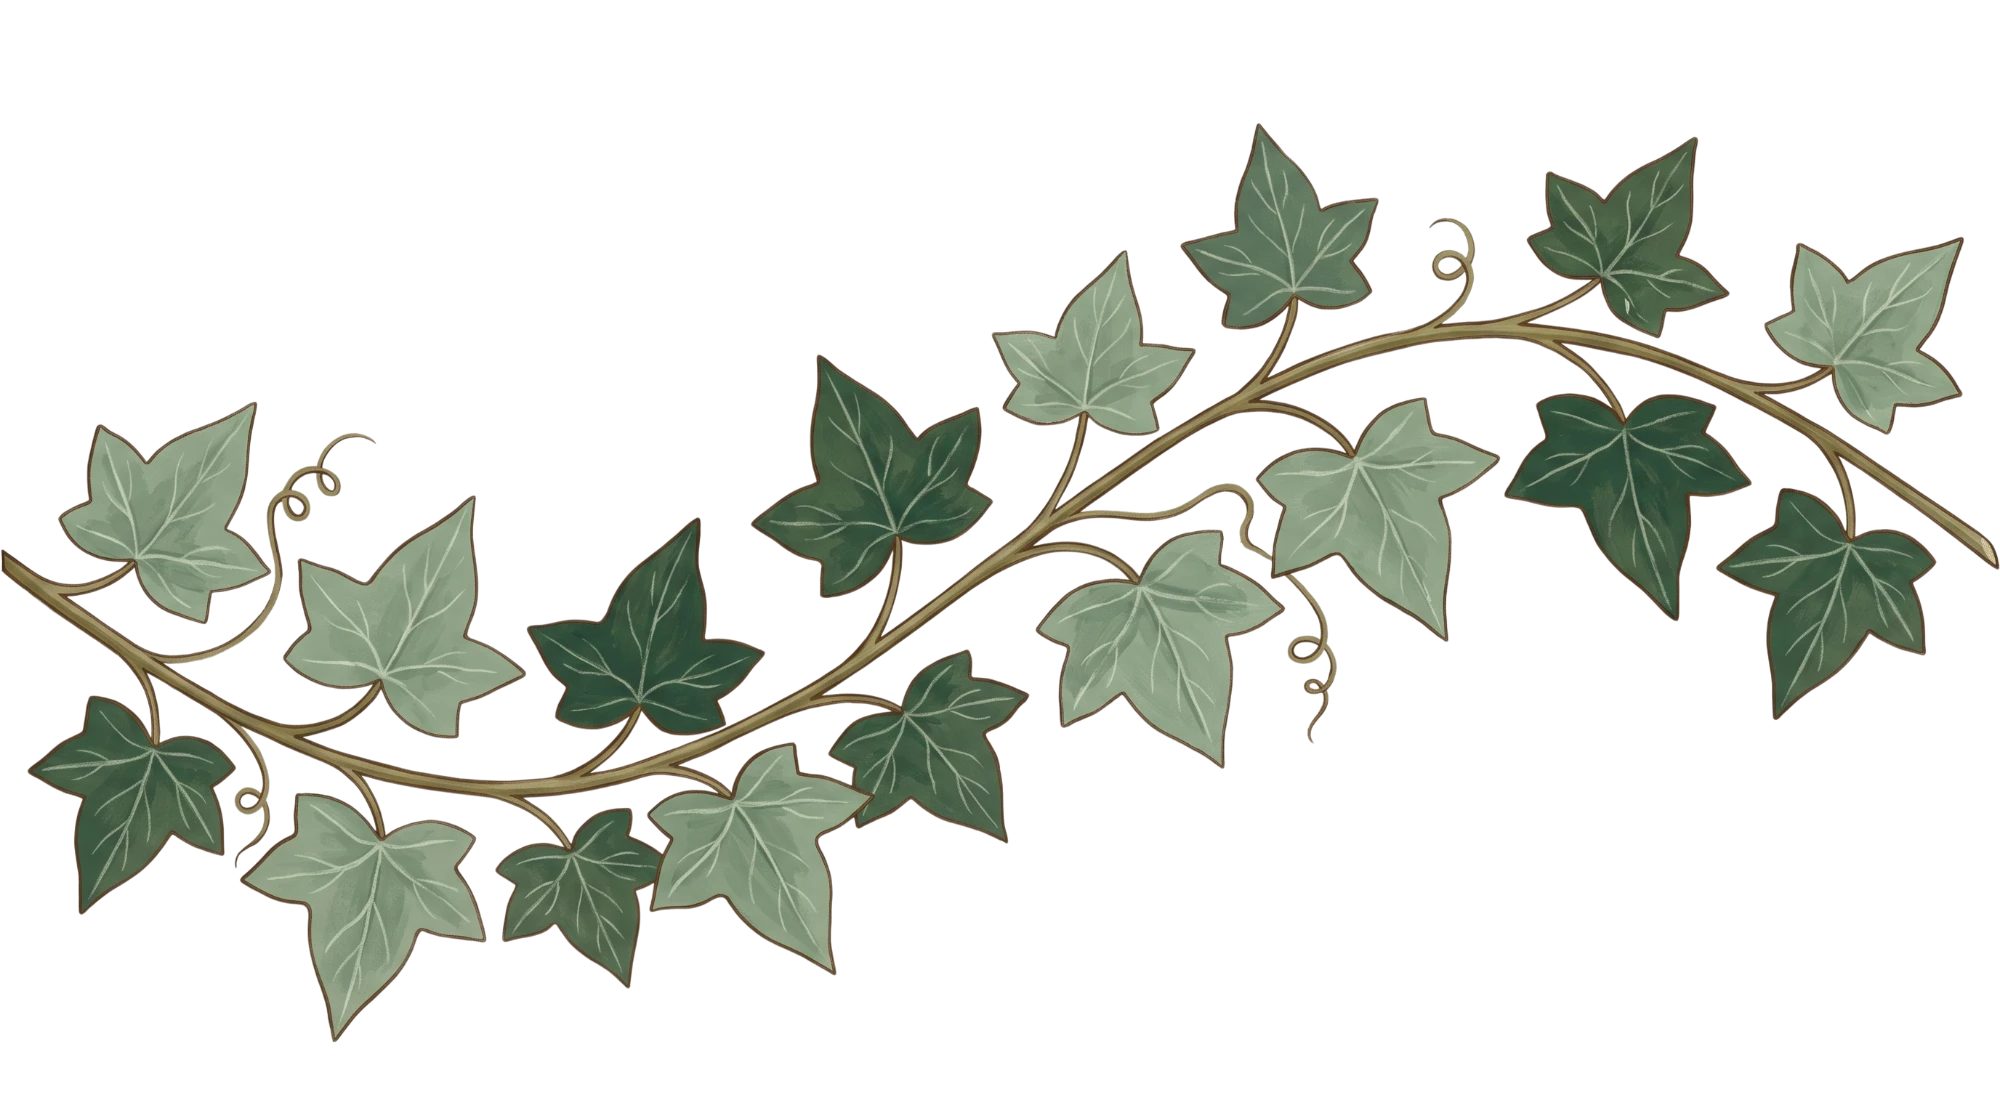
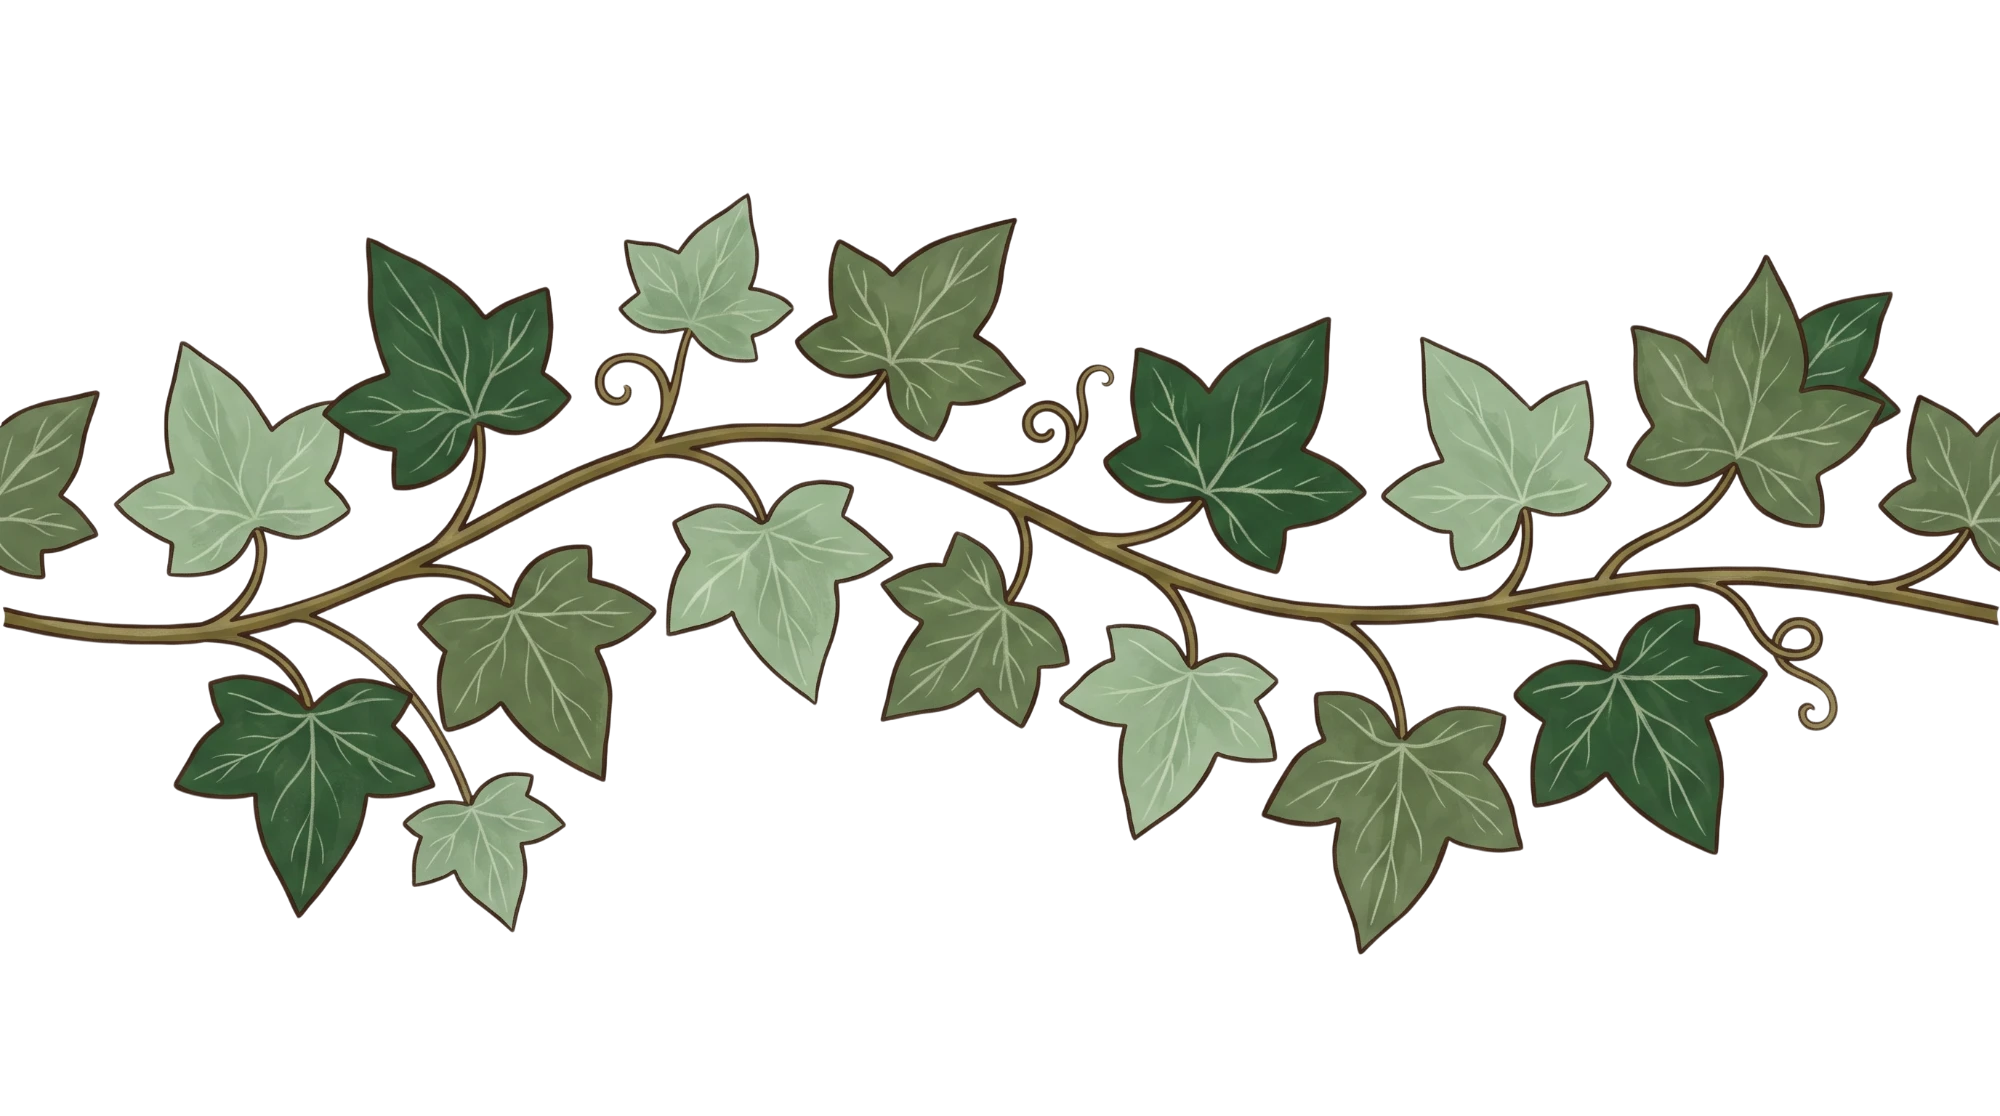
Плитка из лент плюща на геометрии из 5 лоз (разные углы)
Claude-Session: https://claude.ai/code/session_01U7Z916kv9bT83sce2tGQHL

diff --git a/паттерн_ситец/сборка_геометрия.py b/паттерн_ситец/сборка_геометрия.py
@@ -1,0 +1,145 @@
+# Плитка из лент на «безумной» геометрии: лозы под разными замыкающимися углами, на каждой своя лента.
+# Лента на каждой линии масштабируется так, чтобы целое число периодов ровно укладывалось в замкнутую петлю
+# (длина петли = R·√(p²+q²)), поэтому лозы замыкаются без шва. В пересечениях лозы идут поочерёдно над/под.
+#   python сборка_геометрия.py --out плитка.png --size 2048
+import argparse, math, os
+import numpy as np
+from PIL import Image
+from scipy import ndimage as ndi
+
+ap = argparse.ArgumentParser()
+ap.add_argument('--out', default='плитка_геометрия.png')
+ap.add_argument('--size', type=int, default=2048)
+ap.add_argument('--period', type=float, default=1300)      # желаемый период ленты вдоль лозы, px (подгоняется под целое число)
+ap.add_argument('--margin', type=int, default=36)          # нахлёст соседних периодов, px (убирает светлые швы)
+ap.add_argument('--dir', default='лента')
+ap.add_argument('--bg', default='')
+ap.add_argument('--cut', type=int, default=46)             # радиус перерисовки «над» вокруг узла, px
+a = ap.parse_args()
+
+R = a.size
+# линия: (p, q) — сколько сторон плитки проходит лоза по x и y за петлю; c — смещение (доля R); для вертикали x0
+LINES = [
+    dict(p=1, q=1, c=0.00, rib='плющ_1', flip=False, ph=0.00),
+    dict(p=1, q=-1, c=0.40, rib='плющ_2', flip=False, ph=0.31),
+    dict(p=1, q=2, c=0.15, rib='плющ_3', flip=True, ph=0.57),
+    dict(p=2, q=1, c=0.62, rib='плющ_4', flip=False, ph=0.12),
+    dict(p=0, q=1, c=0.00, x0=0.55, rib='плющ_1', flip=True, ph=0.44),
+]
+
+
+def vine_only(im):
+    arr = np.array(im)
+    x = 8
+    ys = np.where(arr[:, x, 3] > 200)[0]
+    groups = np.split(ys, np.where(np.diff(ys) > 3)[0] + 1)
+    g = groups[-1]
+    sy = int(g.mean())
+    seed = arr[sy - 2:sy + 3, x - 2:x + 3, :3].reshape(-1, 3).mean(axis=0)
+    d = np.abs(arr[..., :3].astype(int) - seed[None, None, :]).max(axis=2)
+    cand = (d < 28) & (arr[..., 3] > 200)
+    lab, _ = ndi.label(cand, structure=np.ones((3, 3)))
+    m = lab == lab[sy, x]
+    m = ndi.binary_dilation(m, iterations=3) & (arr[..., 3] > 40)
+    out = arr.copy(); out[..., 3] = np.where(m, arr[..., 3], 0)
+    return Image.fromarray(out)
+
+
+def load(name):
+    im = Image.open(os.path.join(a.dir, name + '.png')).convert('RGBA')
+    return im, vine_only(im)
+
+
+def piece(im, T, flip, m):
+    """Один период ленты (ширина T+2m): берётся из утроенной ленты, поэтому края — внутренние пиксели."""
+    W0, H0 = im.size
+    tri = Image.new('RGBA', (W0 * 3, H0), (0, 0, 0, 0))
+    for i in range(3):
+        tri.alpha_composite(im, (i * W0, 0))
+    k = T / W0
+    tri = tri.resize((int(round(W0 * 3 * k)), int(round(H0 * k))), Image.LANCZOS)
+    t = int(round(T))
+    p = tri.crop((t - m, 0, 2 * t + m, tri.height))
+    return p.transpose(Image.FLIP_TOP_BOTTOM) if flip else p
+
+
+def paste_wrap(dst, im, cx, cy):
+    w, h = im.size
+    x0, y0 = int(round(cx - w / 2)), int(round(cy - h / 2))
+    for kx in range(-2, 3):
+        for ky in range(-2, 3):
+            xx, yy = x0 + kx * R, y0 + ky * R
+            if xx >= R or yy >= R or xx + w <= 0 or yy + h <= 0:
+                continue
+            sx0, sy0 = max(0, -xx), max(0, -yy)
+            sx1, sy1 = min(w, R - xx), min(h, R - yy)
+            dst.alpha_composite(im, (xx + sx0, yy + sy0), (sx0, sy0, sx1, sy1))
+
+
+cache = {}
+layers = []
+for i, L in enumerate(LINES):
+    if L['rib'] not in cache:
+        cache[L['rib']] = load(L['rib'])
+    im, vo = cache[L['rib']]
+    loop = R * math.hypot(L['p'], L['q'])
+    n = max(1, round(loop / a.period))
+    T = loop / n
+    deg = math.degrees(math.atan2(L['q'], L['p']))
+    d = np.array([L['p'], L['q']], float) / math.hypot(L['p'], L['q'])
+    start = np.array([L.get('x0', 0.0) * R, L['c'] * R])
+    full = Image.new('RGBA', (R, R), (0, 0, 0, 0))
+    vin = Image.new('RGBA', (R, R), (0, 0, 0, 0))
+    pc, pv = piece(im, T, L['flip'], a.margin), piece(vo, T, L['flip'], a.margin)
+    rc, rv = pc.rotate(-deg, resample=Image.BICUBIC, expand=True), pv.rotate(-deg, resample=Image.BICUBIC, expand=True)
+    for j in range(n):
+        u = (j + 0.5 + L['ph']) * T
+        c = (start + d * u) % R
+        paste_wrap(full, rc, c[0], c[1])
+        paste_wrap(vin, rv, c[0], c[1])
+    layers.append((full, vin))
+    print(f"лоза {i + 1}: ({L['p']},{L['q']}) {L['rib']}: петля {loop:.0f}px = {n} периода по {T:.0f}px, угол {deg:.1f}°")
+
+canvas = Image.new('RGBA', (R, R), (0, 0, 0, 0))
+for full, vin in layers:
+    canvas.alpha_composite(full)
+
+# узлы: области, где пересекаются стебли двух разных лоз; победителя чередуем
+va = [np.array(v)[..., 3] > 100 for _, v in layers]
+node_list = []
+for i in range(len(layers)):
+    for j in range(i + 1, len(layers)):
+        ov = ndi.binary_dilation(va[i] & va[j], iterations=2)
+        lab, nn = ndi.label(ov)
+        for k in range(1, nn + 1):
+            mk = lab == k
+            if mk.sum() < 30:
+                continue
+            ys, xs = np.nonzero(mk)
+            node_list.append((i, j, xs.mean(), ys.mean()))
+print('узлов пересечения:', len(node_list))
+yy, xx = np.mgrid[0:R, 0:R]
+for idx, (i, j, x, y) in enumerate(sorted(node_list, key=lambda t: (round(t[3] / 150), t[2]))):
+    win = i if idx % 2 == 0 else j
+    if win == len(layers) - 1 or win > max(i, j) - 1 and win == max(i, j):
+        continue                                           # победитель уже сверху по порядку наложения
+    dx = np.minimum(np.abs(xx - x), R - np.abs(xx - x)); dy = np.minimum(np.abs(yy - y), R - np.abs(yy - y))
+    soft = np.clip((a.cut - np.hypot(dx, dy)) / 12.0, 0, 1)
+    patch = np.array(layers[win][1])
+    patch[..., 3] = (patch[..., 3] * soft).astype(np.uint8)
+    canvas.alpha_composite(Image.fromarray(patch))
+
+bgc = tuple(int(a.bg[k:k + 2], 16) for k in (0, 2, 4)) + (255,) if a.bg else (255, 255, 255, 255)
+out = Image.new('RGBA', (R, R), bgc)
+out.alpha_composite(canvas)
+out.convert('RGB').save(a.out)
+canvas.save(os.path.splitext(a.out)[0] + '_прозр.png')
+t = Image.new('RGB', (R * 2, R * 2))
+for x_ in (0, 1):
+    for y_ in (0, 1):
+        t.paste(out.convert('RGB'), (x_ * R, y_ * R))
+t.resize((1600, 1600), Image.LANCZOS).save(os.path.splitext(a.out)[0] + '_2x2.jpg', quality=90)
+o = np.array(out.convert('RGB')).astype(float)
+inner = (np.abs(o[:, 1:] - o[:, :-1]).mean() + np.abs(o[1:] - o[:-1]).mean()) / 2
+print('перепад внутри %.2f; стык лево-право %.2f, верх-низ %.2f' % (inner, np.abs(o[:, -1] - o[:, 0]).mean(), np.abs(o[-1] - o[0]).mean()))
+print('готово', a.out)
